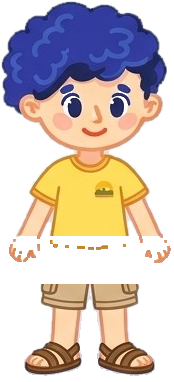
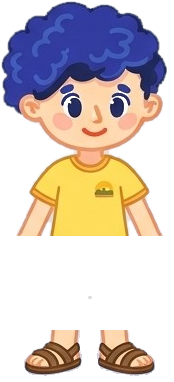
Oblékání: legíny a zimní kalhoty až k pasu, legíny bez lemu pláštěnky, na konci Výborně!

diff --git a/src/app/prvouka/PrvoukaObleceni.tsx b/src/app/prvouka/PrvoukaObleceni.tsx
@@ -33,7 +33,7 @@ const ITEMS: Item[] = [
   { id: 'kratasy', name: 'Kraťasy', slot: 'dolu', thumb: 'kratasy', pieces: [] },
   { id: 'dziny', name: 'Džíny', slot: 'dolu', thumb: 'dziny', pieces: [{ src: 'nas-dziny', box: [36, 269, 173, 375], z: 2 }] },
   { id: 'kalhoty', name: 'Kalhoty', slot: 'dolu', thumb: 'kalhoty', pieces: [{ src: 'nas-kalhoty', box: [23, 269, 189, 368], z: 2 }] },
-  { id: 'zimni-kalhoty', name: 'Zimní kalhoty', slot: 'dolu', thumb: 'nas-zimni-kalhoty', pieces: [{ src: 'nas-zimni-kalhoty', box: [47, 292, 167, 363], z: 2 }] },
+  { id: 'zimni-kalhoty', name: 'Zimní kalhoty', slot: 'dolu', thumb: 'nas-zimni-kalhoty', pieces: [{ src: 'nas-zimni-kalhoty', box: [44, 262, 170, 363], z: 2 }] },
   { id: 'sandaly', name: 'Sandály', slot: 'boty', thumb: 'sandaly', pieces: [] },
   { id: 'tenisky', name: 'Tenisky', slot: 'boty', thumb: 'tenisky', pieces: [{ src: 'nas-tenisky', box: [36, 357, 173, 389], z: 3 }] },
   { id: 'boty', name: 'Kotníkové boty', slot: 'boty', thumb: 'boty', pieces: [{ src: 'nas-boty', box: [29, 352, 190, 392], z: 3 }] },
@@ -51,7 +51,7 @@ const H_ITEMS: Item[] = [
   { id: 'plastenka', name: 'Pláštěnka', slot: 'bunda', thumb: 'hanka/plastenka', pieces: [{ src: 'hanka/plastenka', box: [12, 30, 222, 379], z: 6 }] },
   { id: 'zimni-bunda', name: 'Zimní bunda', slot: 'bunda', thumb: 'hanka/f-zimni-bunda', pieces: [{ src: 'hanka/f-zimni-bunda', box: [20, 166, 218, 360], z: 6 }] },
   { id: 'kratasy', name: 'Kraťasy', slot: 'dolu', thumb: 'hanka/f-kratasy', pieces: [] },
-  { id: 'leginy', name: 'Legíny', slot: 'dolu', thumb: 'hanka/leginy', pieces: [{ src: 'hanka/leginy', box: [53, 364, 181, 426], z: 2 }] },
+  { id: 'leginy', name: 'Legíny', slot: 'dolu', thumb: 'hanka/leginy', pieces: [{ src: 'hanka/leginy', box: [56, 318, 184, 428], z: 2 }] },
   { id: 'dziny', name: 'Džíny', slot: 'dolu', thumb: 'hanka/dziny', pieces: [{ src: 'hanka/dziny', box: [39, 344, 201, 421], z: 2 }] },
   { id: 'tenisky', name: 'Tenisky', slot: 'boty', thumb: 'hanka/f-tenisky', pieces: [] },
   { id: 'sandaly', name: 'Sandály', slot: 'boty', thumb: 'hanka/f-sandaly', pieces: [{ src: 'hanka/sandaly', box: [47, 424, 191, 478], z: 3 }] },
@@ -90,7 +90,7 @@ function mapBox(box: [number, number, number, number], slot: Slot, from: Who, to
 /** Postavy: rámeček, základní obrázek (a jeho varianty bez kraťasů pod dlouhými kalhotami), šatník a co má na sobě vždycky. */
 const CHARS: Record<Who, { kdo: string; komu: string; koho: string; w: number; h: number; base: string; baseBox: [number, number, number, number]; longPants: string[]; items: Item[]; baseIds: Partial<Record<Slot, string>> }> = {
   sam: { kdo: 'Sam', komu: 'Samovi', koho: 'Sama', w: 204, h: 392, base: 'sam', baseBox: [15, 10, 189, 392], longPants: ['dziny', 'kalhoty', 'zimni-kalhoty'], items: ITEMS, baseIds: { vrsek: 'zlute-triko', dolu: 'kratasy', boty: 'sandaly' } },
-  hanka: { kdo: 'Hanka', komu: 'Hance', koho: 'Hanku', w: 240, h: 495, base: 'hanka/hanka', baseBox: [3, 35, 236, 481], longPants: ['leginy', 'dziny'], items: H_ITEMS, baseIds: { vrsek: 'cervene-triko', dolu: 'kratasy' } },
+  hanka: { kdo: 'Hanka', komu: 'Hance', koho: 'Hanku', w: 240, h: 495, base: 'hanka/hanka', baseBox: [3, 35, 236, 481], longPants: ['dziny'], items: H_ITEMS, baseIds: { vrsek: 'cervene-triko', dolu: 'kratasy' } },
 };
 const SHELVES: Array<{ title: string; slots: Slot[] }> = [
   { title: 'Na hlavu a krk', slots: ['hlava', 'krk'] },
@@ -266,7 +266,7 @@ export function PrvoukaObleceni({ settings = {} }: { settings?: Record<string, a
       {!free ? <PrvoukaProgress current={ri} total={rounds.length} lives={0} maxLives={0} /> : null}
       <style>{'@keyframes oblIn{from{opacity:0;transform:translateY(-6px)}to{opacity:1;transform:none}}'}</style>
       {feedback ? <PrvoukaFeedbackOverlay isCorrect={feedback.isCorrect} hint={feedback.hint} info={feedback.info} onComplete={afterFeedback} /> : null}
-      {finished ? <GameResultScreen isSuccess onContinue={restart} successText="Oblečeno! 👕" showContinueButton displayType="gameComplete" score={{ correct: clean, total: rounds.length }} /> : null}
+      {finished ? <GameResultScreen isSuccess onContinue={restart} successText="Výborně!" showContinueButton displayType="gameComplete" score={{ correct: clean, total: rounds.length }} /> : null}
     </div>
   );
 }
